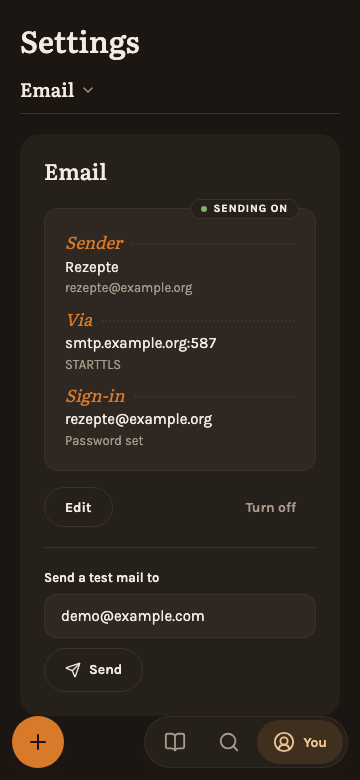
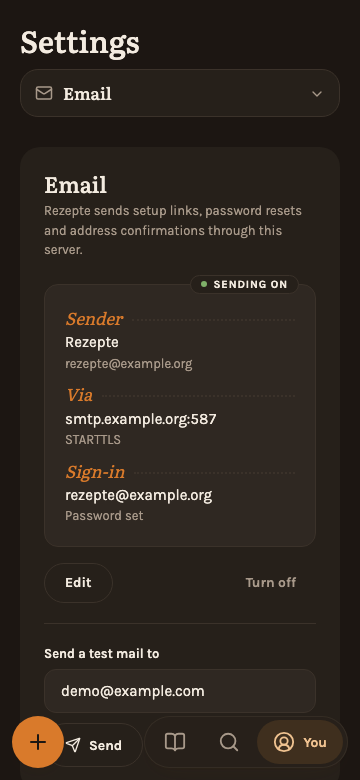
feat(settings): introduce the sign-in and email cards

diff --git a/frontend/src/lib/components/settings/OidcCard.svelte b/frontend/src/lib/components/settings/OidcCard.svelte
@@ -68,9 +68,10 @@
 </script>
 
 <section class="rounded-2xl bg-surface p-6 md:p-7" aria-labelledby="settings-sign-in">
-	<h2 id="settings-sign-in" class="mb-4 font-display text-heading font-medium">
+	<h2 id="settings-sign-in" class="font-display text-heading font-medium">
 		{m.settings_nav_sign_in()}
 	</h2>
+	<p class="mt-1 mb-4 max-w-[60ch] text-caption text-text-muted">{m.settings_sign_in_intro()}</p>
 	{#if loadFailed}
 		<p class="text-body-sm text-text-muted">{m.settings_sign_in_load_error()}</p>
 	{:else if !current}

diff --git a/frontend/src/lib/components/settings/MailCard.svelte b/frontend/src/lib/components/settings/MailCard.svelte
@@ -79,9 +79,10 @@
 </script>
 
 <section class="rounded-2xl bg-surface p-6 md:p-7" aria-labelledby="settings-mail">
-	<h2 id="settings-mail" class="mb-4 font-display text-heading font-medium">
+	<h2 id="settings-mail" class="font-display text-heading font-medium">
 		{m.settings_nav_mail()}
 	</h2>
+	<p class="mt-1 mb-4 max-w-[60ch] text-caption text-text-muted">{m.settings_mail_intro()}</p>
 	{#if loadFailed}
 		<p class="text-body-sm text-text-muted">{m.settings_mail_load_error()}</p>
 	{:else if !current}
